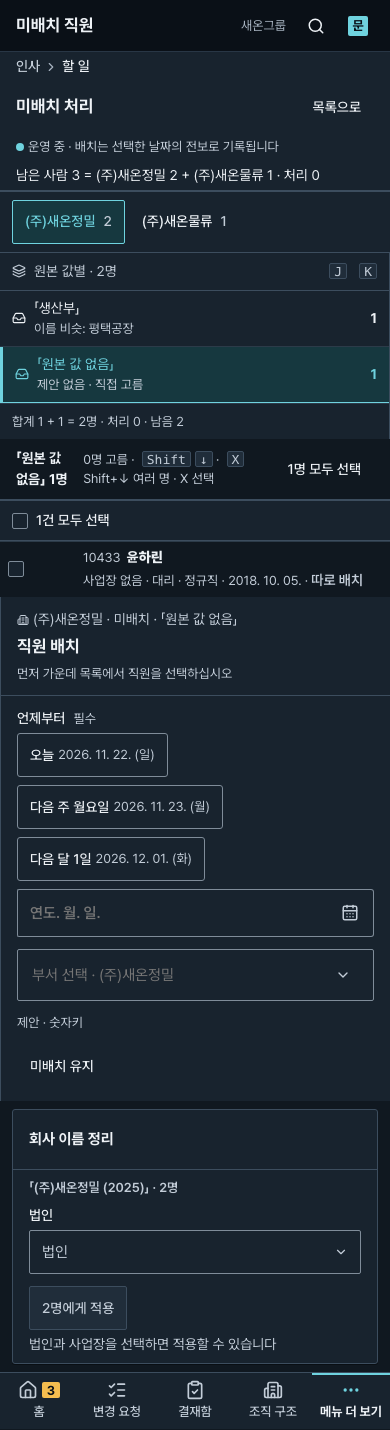
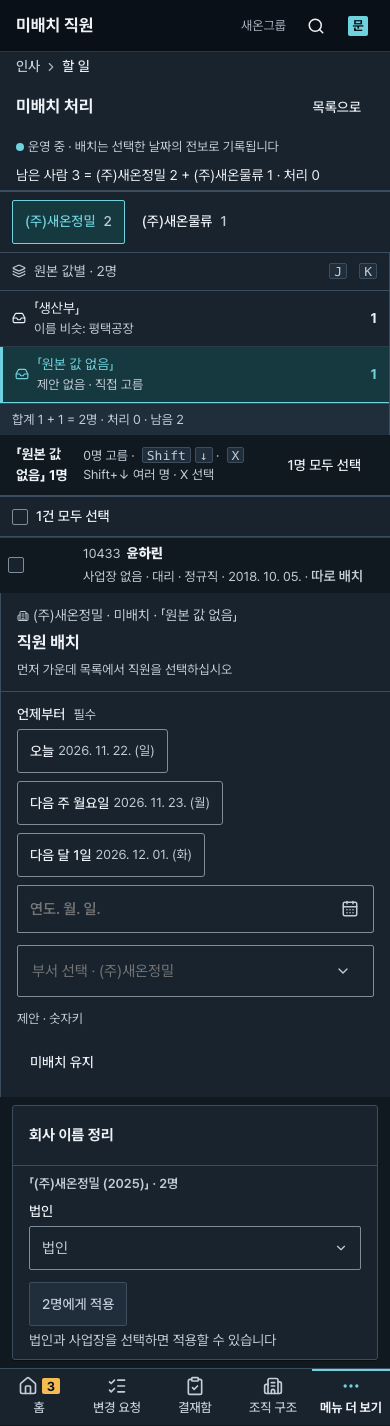
fix(people,import): clear spacing ratchet and add SPDX license headers

diff --git a/apps/web/src/features/people/ui/unplaced-groups.tsx b/apps/web/src/features/people/ui/unplaced-groups.tsx
@@ -2,6 +2,7 @@ import { Check, Inbox, Layers } from "lucide-react";
 import { t } from "@console/i18n";
 import { ToggleButton } from "../../../ui/button/button";
 import { Kbd } from "../../../ui/kbd/kbd";
+import { ListSummaryFooter } from "../../../ui/patterns/list-record-parts";
 import type { Group } from "../domain/unplaced";
 import { sourceText } from "../present";
 import c from "./unplaced-console.module.css";
@@ -34,7 +35,7 @@ export function UnplacedGroups({ groups, done, current, onPick, hint, consoleMod
         <Kbd keys="J" />
         <Kbd keys="K" />
       </div>
-      <ul className={s.groupList}>
+      <ul className={consoleMode ? `${s.groupList} ${c.groupList}` : s.groupList}>
         {done.map((d) => (
           <li key={`done-${d.value}`} className={s.groupDone}>
             <Check size={14} aria-hidden className={s.ok} />
@@ -52,7 +53,11 @@ export function UnplacedGroups({ groups, done, current, onPick, hint, consoleMod
           </li>
         ))}
       </ul>
-      <p className={consoleMode ? `${s.groupsFoot} ${c.groupsFoot}` : s.groupsFoot}>{t("unplaced.total", { parts: sizes.join(" + "), n: total, done: placed, left: total - placed })}</p>
+      {consoleMode ? (
+        <ListSummaryFooter start={t("unplaced.total", { parts: sizes.join(" + "), n: total, done: placed, left: total - placed })} />
+      ) : (
+        <p className={s.groupsFoot}>{t("unplaced.total", { parts: sizes.join(" + "), n: total, done: placed, left: total - placed })}</p>
+      )}
     </aside>
   );
 }

diff --git a/apps/web/src/features/people/ui/company-mappings.tsx b/apps/web/src/features/people/ui/company-mappings.tsx
@@ -50,11 +50,13 @@ function Row({ text, people, consoleMode = false, renderSingle }: { text: string
     return (
       <li aria-label={text}>
         <RecordPaneSection title={t("setup.names.row", { name: text, count: people })}>
-          <div className={s.mappingFields}>
-            <PlacementFields value={place} onChange={setPlace} renderSingle={renderSingle} />
+          <div className={s.mappingBody}>
+            <div className={s.mappingFields}>
+              <PlacementFields value={place} onChange={setPlace} renderSingle={renderSingle} />
+            </div>
+            <CommandError error={run.error} />
+            <div className={s.mappingActions}>{action}</div>
           </div>
-          <CommandError error={run.error} />
-          <div className={s.mappingActions}>{action}</div>
         </RecordPaneSection>
       </li>
     );
@@ -85,7 +87,7 @@ export function CompanyMappings({
   return <QueryState q={q}>{(d) => d.items.length > 0 ? (
     consoleMode && wrapSection ? (
       wrapSection(
-        <ul className={s.mappingList}>{d.items.map((x) => <Row key={x.company_text} text={x.company_text} people={x.employees} consoleMode renderSingle={renderSingle} />)}</ul>,
+        <ul className="list-plain">{d.items.map((x) => <Row key={x.company_text} text={x.company_text} people={x.employees} consoleMode renderSingle={renderSingle} />)}</ul>,
       )
     ) : (
       <section aria-label={t("setup.names.title")}>

diff --git a/apps/web/src/features/people/ui/unplaced-console.module.css b/apps/web/src/features/people/ui/unplaced-console.module.css
@@ -1,13 +1,14 @@
+/* SPDX-License-Identifier: LicenseRef-Proprietary */
 /* Console-mode layout helpers for the unplaced placement workspace. Tokens only, zero outer margin/padding. */
 .page { display: flex; flex-direction: column; min-height: 100%; min-width: 0; }
 .tabs { display: flex; flex-wrap: wrap; gap: var(--space-1); }
 .count { composes: muted num from global; }
 .panes { display: grid; grid-template-columns: calc(var(--space-6) * 6.5) minmax(0, 1fr) calc(var(--space-6) * 10.5); flex: 1; min-height: 0; }
 .mappings { display: flex; flex-direction: column; gap: var(--space-3); min-width: 0; }
-.mappingList { display: flex; flex-direction: column; gap: var(--space-2); margin: 0; padding: 0; list-style: none; }
+.mappingBody { display: flex; flex-direction: column; gap: var(--space-3); min-width: 0; }
 .mappingFields { display: grid; grid-template-columns: repeat(2, minmax(0, 1fr)); gap: var(--space-3); }
-.mappingActions { display: flex; flex-wrap: wrap; align-items: center; gap: var(--space-1) var(--space-3); margin-top: var(--space-3); }
-.groupsFoot.groupsFoot { margin: auto 0 0; }
+.mappingActions { display: flex; flex-wrap: wrap; align-items: center; gap: var(--space-1) var(--space-3); }
+.groupList { flex: 1; }
 .alone { composes: t-sm t-semibold from global; white-space: nowrap; flex-shrink: 0; }
 .nowrap { white-space: nowrap; flex-shrink: 0; }
 .sum { composes: t-sm num from global; }

diff --git a/apps/web/src/features/import/ui/import-console.module.css b/apps/web/src/features/import/ui/import-console.module.css
@@ -1,3 +1,4 @@
+/* SPDX-License-Identifier: LicenseRef-Proprietary */
 /* Console-mode import wizard layout helpers. Tokens only, zero outer margin/padding. */
 .stack { display: flex; flex-direction: column; gap: var(--space-4); min-width: 0; }
 .triageSticky { position: sticky; top: 0; z-index: 2; }

diff --git a/apps/web/src/features/people/ui/data-health.module.css b/apps/web/src/features/people/ui/data-health.module.css
@@ -1,3 +1,4 @@
+/* SPDX-License-Identifier: LicenseRef-Proprietary */
 /* Console-mode layout helpers for /people/data-health. Tokens only. */
 .stack { display: flex; flex-direction: column; gap: var(--space-4); min-width: 0; }
 .chips { display: flex; flex-wrap: wrap; gap: var(--space-1); }

diff --git a/packages/i18n/src/catalogs/en/data-health.ts b/packages/i18n/src/catalogs/en/data-health.ts
@@ -1,3 +1,4 @@
+// SPDX-License-Identifier: LicenseRef-Proprietary
 // English copy for `dataHealth.` ids (features/people/ui/data-health-*.tsx).
 export const enDataHealth = {
   "dataHealth.title": "Data health",
